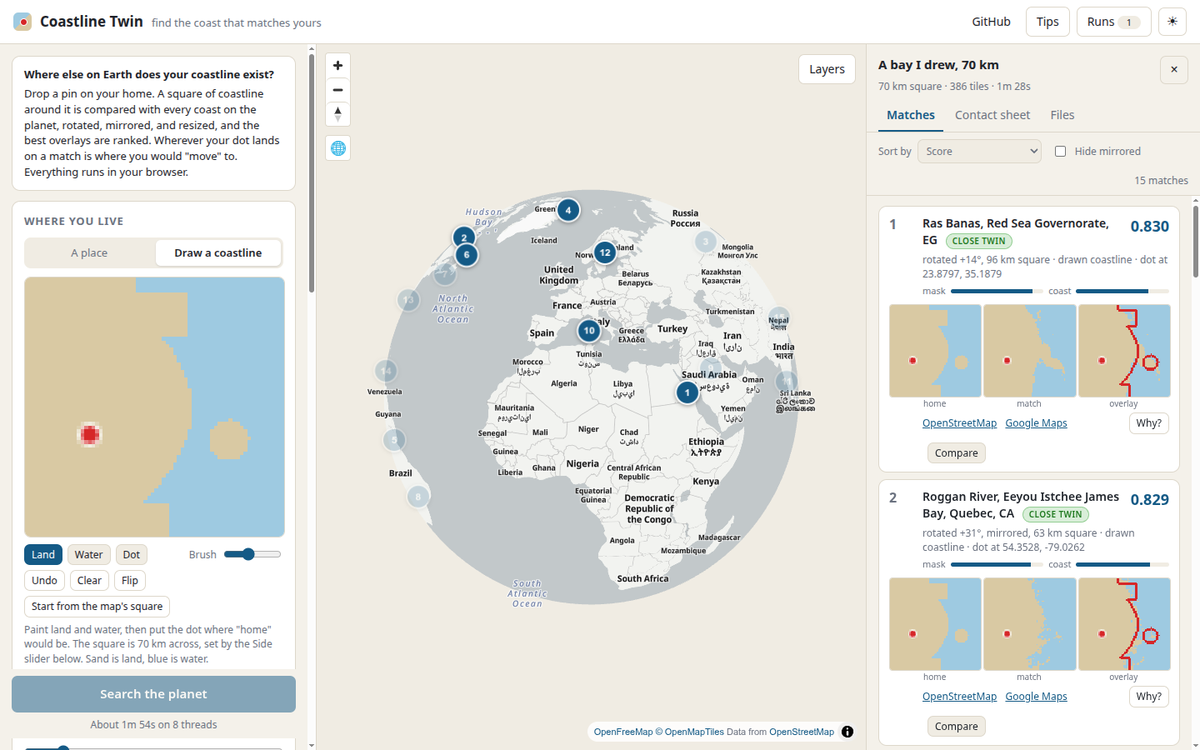
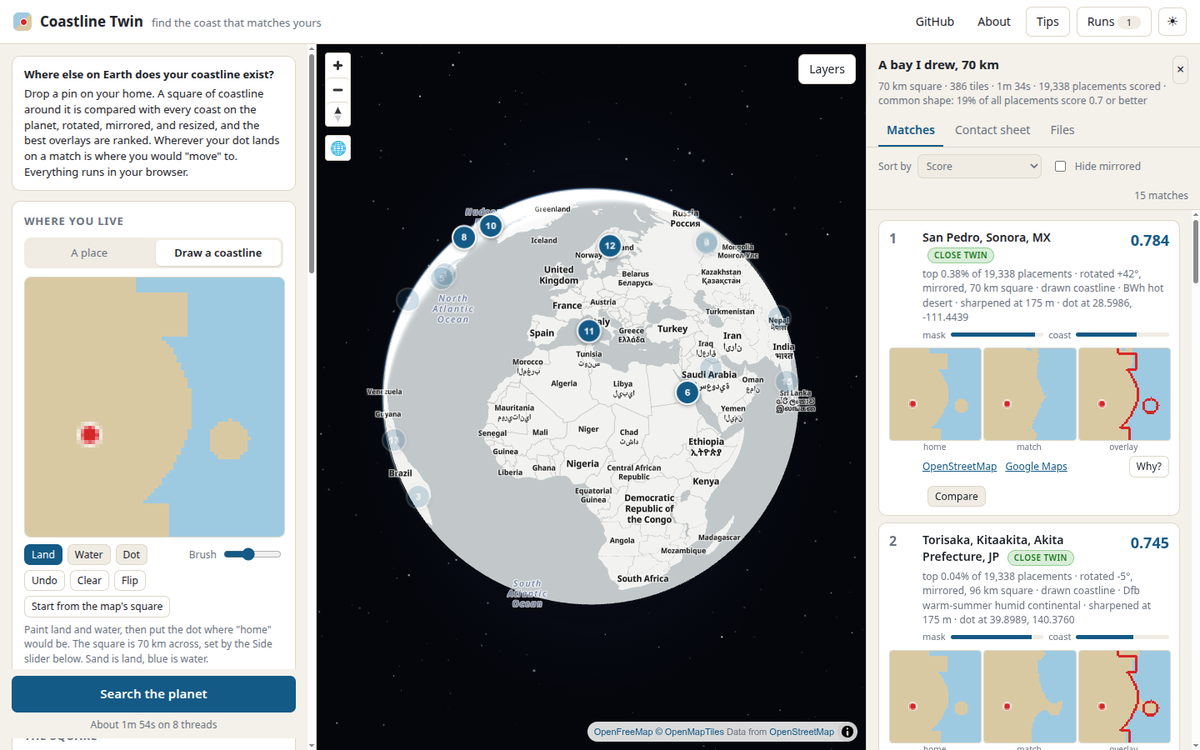
Refresh the results and draw-mode screenshots
Both gallery images now show the star-field sky, the placement count, and
the common-shape note. The drawn bay's caption names its current top
match, San Pedro in Sonora, in place of Ras Banas.

diff --git a/README.md b/README.md
@@ -38,8 +38,8 @@ the matched stretches are.*
 ![Draw mode: a hand-painted bay with a headland and an island in the sidebar, and its fifteen best twins pinned across a globe](docs/images/draw-mode.png)
 
 *Draw a coastline instead of choosing a place. This bay never existed, and
-its closest twin is Ras Banas on Egypt's Red Sea coast. The drawing travels
-inside the shareable link.*
+its closest twin is San Pedro on Sonora's Gulf of California coast, mirrored.
+The drawing travels inside the shareable link.*
 
 ![The map zoomed to one match with its square outlined and the pin at the landing point](docs/images/match-detail.png)
 
